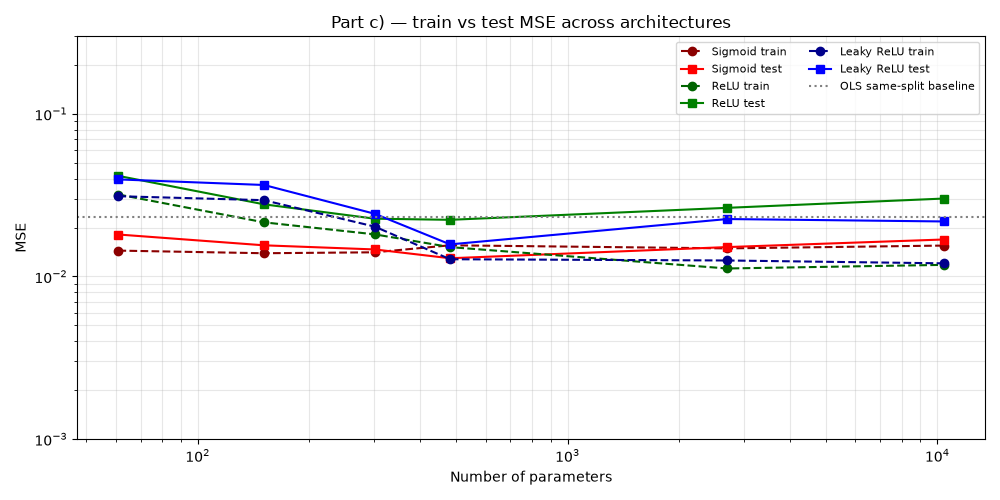
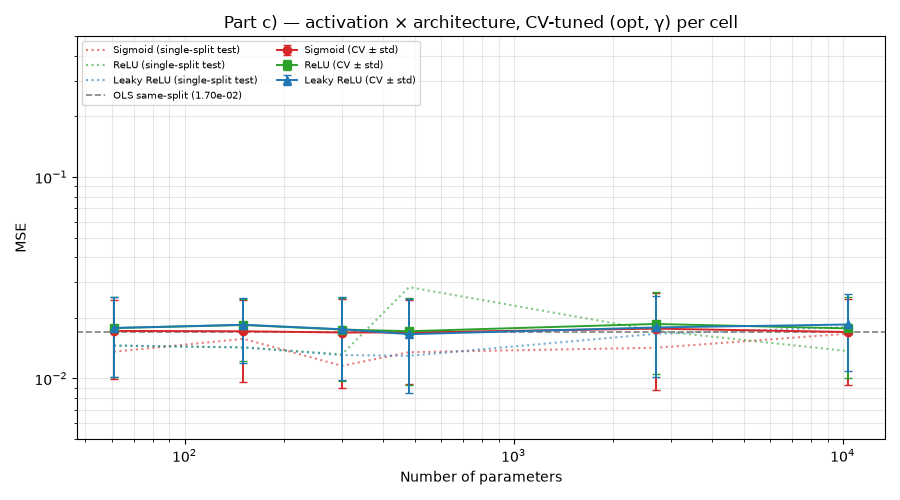
slighht changes

diff --git a/Project2/submit-parts/part_c.py b/Project2/submit-parts/part_c.py
@@ -1,15 +1,19 @@
 """
-Part c) — Activation × depth × width, with tuned γ per architecture.
+Part c) — Activation × depth × width, with CV-tuned (opt, γ) per cell.
 
-Uses the tuned optimizers/learning rates from part b Table I:
-  - 1 hidden layer: Adam, γ=0.1
-  - 2 hidden layers: RMSprop, γ=0.01
-ReLU and Leaky ReLU use He initialization; sigmoid uses Xavier.
+Each cell (activation, architecture) is tuned INDEPENDENTLY by 5-fold CV.
+This is the only fair way to compare activations: a learning rate that is
+good for sigmoid (γ=0.1 with Adam) is a dying-neuron regime for ReLU.
+
+Reports: CV mean ± std (primary, low-variance), single-split train/test
+(secondary), parameter count.
+
+ReLU and Leaky ReLU use He initialization; sigmoid uses Xavier. This is
+threaded through `init=` in `select_hyperparams_cv` and `fit_final`.
 """
 
 import numpy as np
 import matplotlib.pyplot as plt
-from sklearn.preprocessing import StandardScaler
 from sklearn.model_selection import train_test_split
 import sys
 from pathlib import Path
@@ -21,42 +25,60 @@ from function_setup2 import (runge, sigmoid, sigmoid_der,
 from data_aquisition import design_matrix
 from part_a import C_mse
 from part_b import (raw_x, I_identity, dI_dz, create_layers,
-                    train_network, predict)
+                    train_network, predict,
+                    select_hyperparams_cv, fit_final)      # ← new imports
+
+
+# ---------------------------------------------------------------------------
+# Search space: SGD was never competitive in part_b, so drop it for speed.
+# 2 optimizers × 3 gammas × 5 folds × 6 architectures × 3 activations
+#   = 540 trainings of 500 epochs on 70 points. ~10–20 min on a laptop.
+# If too slow: reduce k to 3, or n_epochs to 300.
+# ---------------------------------------------------------------------------
+OPTIMIZERS = ("adam", "rmsprop")
+GAMMAS     = (1e-3, 1e-2, 1e-1)
 
 
 if __name__ == "__main__":
-    rng = np.random.default_rng(2026)
-    n = 100
+    rng   = np.random.default_rng(2026)
+    n     = 100
     sigma = 0.1
-    x = np.sort(rng.uniform(-1.0, 1.0, n))
-    y = runge(x) + rng.normal(0.0, sigma, n)
+    x     = rng.uniform(-1.0, 1.0, n)          # matches part_b — no sort
+    y     = runge(x) + rng.normal(0.0, sigma, n)
 
     X_nn = raw_x(x)
-    X_tr, X_te, y_tr, y_te = train_test_split(
+    X_tr_raw, X_te_raw, y_tr, y_te = train_test_split(
         X_nn, y.reshape(-1, 1), test_size=0.3, random_state=42
     )
-    scaler = StandardScaler().fit(X_tr)
-    X_tr = scaler.transform(X_tr)
-    X_te = scaler.transform(X_te)
+    # Raw arrays kept raw — scaling is handled by select_hyperparams_cv
+    # (fit_scaler inside each fold) and fit_final (fit_scaler on all of train).
 
-    # (act, der, init) per activation
     activation_sets = {
         "Sigmoid":    (sigmoid,    sigmoid_der,    "xavier"),
         "ReLU":       (ReLU,       ReLU_der,       "he"),
         "Leaky ReLU": (leaky_ReLU, leaky_ReLU_der, "he"),
     }
-
     architectures = [
-        ("1 hidden, 20",   [20, 1]),
-        ("1 hidden, 50",   [50, 1]),
-        ("1 hidden, 100",  [100, 1]),
-        ("2 hidden, 20/20",    [20, 20, 1]),
-        ("2 hidden, 50/50",    [50, 50, 1]),
-        ("2 hidden, 100/100",  [100, 100, 1]),
+        ("1×20",     [20, 1]),
+        ("1×50",     [50, 1]),
+        ("1×100",    [100, 1]),
+        ("2×20/20",  [20, 20, 1]),
+        ("2×50/50",  [50, 50, 1]),
+        ("2×100/100",[100, 100, 1]),
     ]
 
-    print(f"{'Activation':<12} {'Architecture':<20} "
-          f"{'Optimizer':<10} {'γ':<8} {'Train MSE':<12} {'Test MSE':<12} {'# Params':<10}")
+    # ---- OLS baseline, computed from the SAME split (not a stale 2.33e-2) --
+    X_poly = design_matrix(x, degree=10, intercept=True)
+    Xp_tr, Xp_te, yp_tr, yp_te = train_test_split(
+        X_poly, y, test_size=0.3, random_state=42
+    )
+    theta_ols = np.linalg.pinv(Xp_tr.T @ Xp_tr) @ Xp_tr.T @ yp_tr
+    ols_mse = float(C_mse(yp_te, Xp_te @ theta_ols))
+
+    # ---- Table header ------------------------------------------------------
+    print(f"\nOLS baseline on this split: {ols_mse:.4e}\n")
+    print(f"{'Activation':<12} {'Arch':<10} {'opt':<9} {'γ':<7} "
+          f"{'CV MSE (mean±std)':<20} {'Train':<10} {'Test':<10} {'#Par':<6}")
     print("-" * 90)
 
     results = []
@@ -65,74 +87,72 @@ if __name__ == "__main__":
             acts = [act_fn] * (len(out_sizes) - 1) + [I_identity]
             ders = [act_der] * (len(out_sizes) - 1) + [dI_dz]
 
-            # Tuned optimizers, from part b Table I:
-            #   shallow networks: Adam at γ=0.1
-            #   deep networks:    RMSprop at γ=0.01
-            if len(out_sizes) == 2:
-                opt, gamma = "adam", 0.1
-            else:
-                opt, gamma = "rmsprop", 0.01
+            # CV-select (opt, γ) for THIS activation × architecture
+            ranked = select_hyperparams_cv(
+                X_tr_raw, y_tr, out_sizes, acts, ders,
+                optimizers=OPTIMIZERS, gammas=GAMMAS,
+                k=5, seed=42, init=init,
+            )
+            cv_m, cv_s, opt, gamma = ranked[0]
 
-            try:
-                layers = create_layers(1, out_sizes, seed=42, init=init)
-                layers = train_network(
-                    X_tr, y_tr, layers, acts, ders,
-                    optimizer=opt, gamma=gamma,
-                    n_epochs=500, batch_size=32, seed=42,
-                )
-                train_mse = C_mse(y_tr, predict(X_tr, layers, acts))
-                test_mse  = C_mse(y_te, predict(X_te, layers, acts))
-                n_params = sum(W.size + b.size for W, b in layers)
+            # Refit on all of X_tr_raw at the selected γ
+            L, sc = fit_final(X_tr_raw, y_tr, out_sizes, acts, ders,
+                              opt, gamma, seed=42, init=init)
+            X_tr_sc = sc.transform(X_tr_raw)
+            X_te_sc = sc.transform(X_te_raw)
+            train_mse = float(C_mse(y_tr, predict(X_tr_sc, L, acts)))
+            test_mse  = float(C_mse(y_te, predict(X_te_sc, L, acts)))
+            n_params  = sum(W.size + b.size for W, b in L)
 
-                # NaN / divergence guard: if either MSE is non-finite OR
-                # absurdly large (say > 10), the run has diverged. Report
-                # it explicitly rather than plotting 10^12 in a log graph.
-                if not (np.isfinite(train_mse) and np.isfinite(test_mse)) \
-                        or train_mse > 10 or test_mse > 10:
-                    print(f"{act_name:<12} {arch_name:<20} {opt:<10} {gamma:<8.0e} "
-                          f"DIVERGED (train={train_mse:.2e}, test={test_mse:.2e})")
-                    continue
+            # Sanity: mark diverged cells instead of printing 10^12
+            if not (np.isfinite(cv_m) and np.isfinite(test_mse)) \
+                    or cv_m > 1.0 or test_mse > 1.0:
+                print(f"{act_name:<12} {arch_name:<10} {opt:<9} {gamma:<7.0e} "
+                      f"DIVERGED (cv={cv_m:.1e}, test={test_mse:.1e})")
+                continue
 
-                print(f"{act_name:<12} {arch_name:<20} {opt:<10} {gamma:<8.0e} "
-                      f"{train_mse:<12.4e} {test_mse:<12.4e} {n_params:<10}")
+            print(f"{act_name:<12} {arch_name:<10} {opt:<9} {gamma:<7.0e} "
+                  f"{cv_m:.3e}±{cv_s:.1e}       "
+                  f"{train_mse:.3e}   {test_mse:.3e}   {n_params}")
+            results.append({
+                "activation": act_name, "arch": arch_name,
+                "cv_m": cv_m, "cv_s": cv_s,
+                "train_mse": train_mse, "test_mse": test_mse,
+                "n_params": n_params, "opt": opt, "gamma": gamma,
+            })
 
-                results.append({
-                    "activation": act_name,
-                    "arch": arch_name,
-                    "train_mse": train_mse,
-                    "test_mse": test_mse,
-                    "n_params": n_params,
-                })
-            except (FloatingPointError, OverflowError, ValueError) as e:
-                print(f"{act_name:<12} {arch_name:<20} {opt:<10} {gamma:<8.0e} "
-                      f"ERROR: {e}")
+    # ---- Plot: CV mean ± std as primary; single-split test as markers ------
+    fig, ax = plt.subplots(figsize=(9, 5))
+    colors = {"Sigmoid": "tab:red", "ReLU": "tab:green", "Leaky ReLU": "tab:blue"}
+    markers = {"Sigmoid": "o", "ReLU": "s", "Leaky ReLU": "^"}
 
-    # ---- Plot only valid results, with bounded y-axis ----
-    fig, ax = plt.subplots(figsize=(10, 5))
-    plot_colors = {
-        "Sigmoid":    ("darkred",   "red"),
-        "ReLU":       ("darkgreen", "green"),
-        "Leaky ReLU": ("darkblue",  "blue"),
-    }
     for act_name in activation_sets:
         pts = [r for r in results if r["activation"] == act_name]
         if not pts:
             continue
         params = [r["n_params"] for r in pts]
-        train  = [r["train_mse"] for r in pts]
-        test   = [r["test_mse"] for r in pts]
-        train_color, test_color = plot_colors[act_name]
-        ax.plot(params, train, "o--", color=train_color, label=f"{act_name} train")
-        ax.plot(params, test,  "s-",  color=test_color,  label=f"{act_name} test")
+        cv_m   = np.array([r["cv_m"]  for r in pts])
+        cv_s   = np.array([r["cv_s"]  for r in pts])
+        test   = np.array([r["test_mse"] for r in pts])
+
+        # CV mean ± std — primary curve
+        ax.errorbar(params, cv_m, yerr=cv_s,
+                    color=colors[act_name], marker=markers[act_name],
+                    capsize=3, linewidth=1.4,
+                    label=f"{act_name} (CV ± std)")
+        # Single-split test MSE — thin, dashed, same colour, same marker
+        ax.plot(params, test, ":", color=colors[act_name], alpha=0.6,
+                label=f"{act_name} (single-split test)")
+
+    ax.axhline(ols_mse, color="gray", linestyle="--", linewidth=1.2,
+               label=f"OLS same-split ({ols_mse:.2e})")
 
     ax.set_xscale("log"); ax.set_yscale("log")
-    ax.set_ylim(1e-3, 3e-1)          # <-- bound the axis to sane values
-    ax.axhline(2.33e-2, color="gray", linestyle=":",
-               label="OLS same-split baseline")
+    ax.set_ylim(5e-3, 5e-1)
     ax.set_xlabel("Number of parameters")
     ax.set_ylabel("MSE")
-    ax.set_title("Part c) — train vs test MSE across architectures")
-    ax.legend(fontsize=8, ncol=2)
+    ax.set_title("Part c) — activation × architecture, CV-tuned (opt, γ) per cell")
+    ax.legend(fontsize=7, ncol=2, loc="upper left")
     ax.grid(True, alpha=0.3, which="both")
     plt.tight_layout()
     plt.show()

diff --git a/Project2/submit-parts/part_b.py b/Project2/submit-parts/part_b.py
@@ -163,13 +163,12 @@ def kfold_indices(n, k=5, seed=42):
 
 
 def cv_score(X_raw, y, out_sizes, acts, ders, optimizer, gamma,
-             n_epochs=500, batch_size=32, k=5, seed=42):
+             n_epochs=500, batch_size=32, k=5, seed=42, init="xavier"):   # ← new
     fold_mses = []
     for tr_idx, val_idx in kfold_indices(len(y), k, seed):
         sc = StandardScaler().fit(X_raw[tr_idx])
-        L = create_layers(X_raw.shape[1], out_sizes, seed=seed)
-        L = train_network(sc.transform(X_raw[tr_idx]), y[tr_idx],
-                          L, acts, ders,
+        L = create_layers(X_raw.shape[1], out_sizes, seed=seed, init=init)  # ← new
+        L = train_network(sc.transform(X_raw[tr_idx]), y[tr_idx], L, acts, ders,
                           optimizer=optimizer, gamma=gamma,
                           n_epochs=n_epochs, batch_size=batch_size)
         fold_mses.append(
@@ -181,7 +180,8 @@ def cv_score(X_raw, y, out_sizes, acts, ders, optimizer, gamma,
 def select_hyperparams_cv(X_raw, y, out_sizes, acts, ders,
                           optimizers=("sgd", "rmsprop", "adam"),
                           gammas=(1e-4, 1e-3, 1e-2, 1e-1),
-                          n_epochs=500, batch_size=32, k=5, seed=42):
+                          n_epochs=500, batch_size=32, k=5, seed=42,
+                          init="xavier"):                                # ← new
     results = []
     for opt in optimizers:
         for g in gammas:
@@ -189,7 +189,7 @@ def select_hyperparams_cv(X_raw, y, out_sizes, acts, ders,
                 m, s = cv_score(X_raw, y, out_sizes, acts, ders,
                                 optimizer=opt, gamma=g,
                                 n_epochs=n_epochs, batch_size=batch_size,
-                                k=k, seed=seed)
+                                k=k, seed=seed, init=init)              # ← new
             except (FloatingPointError, OverflowError):
                 m, s = np.inf, np.nan
             results.append((m, s, opt, g))
@@ -198,14 +198,13 @@ def select_hyperparams_cv(X_raw, y, out_sizes, acts, ders,
 
 
 def fit_final(X_raw, y, out_sizes, acts, ders, opt, gamma,
-              n_epochs=500, batch_size=32, seed=42):
+              n_epochs=500, batch_size=32, seed=42, init="xavier"):    # ← new
     sc = StandardScaler().fit(X_raw)
-    L = create_layers(X_raw.shape[1], out_sizes, seed=seed)
+    L = create_layers(X_raw.shape[1], out_sizes, seed=seed, init=init)  # ← new
     L = train_network(sc.transform(X_raw), y, L, acts, ders,
                       optimizer=opt, gamma=gamma,
                       n_epochs=n_epochs, batch_size=batch_size)
     return L, sc
-
 
 # ============================================================
 if __name__ == "__main__":
